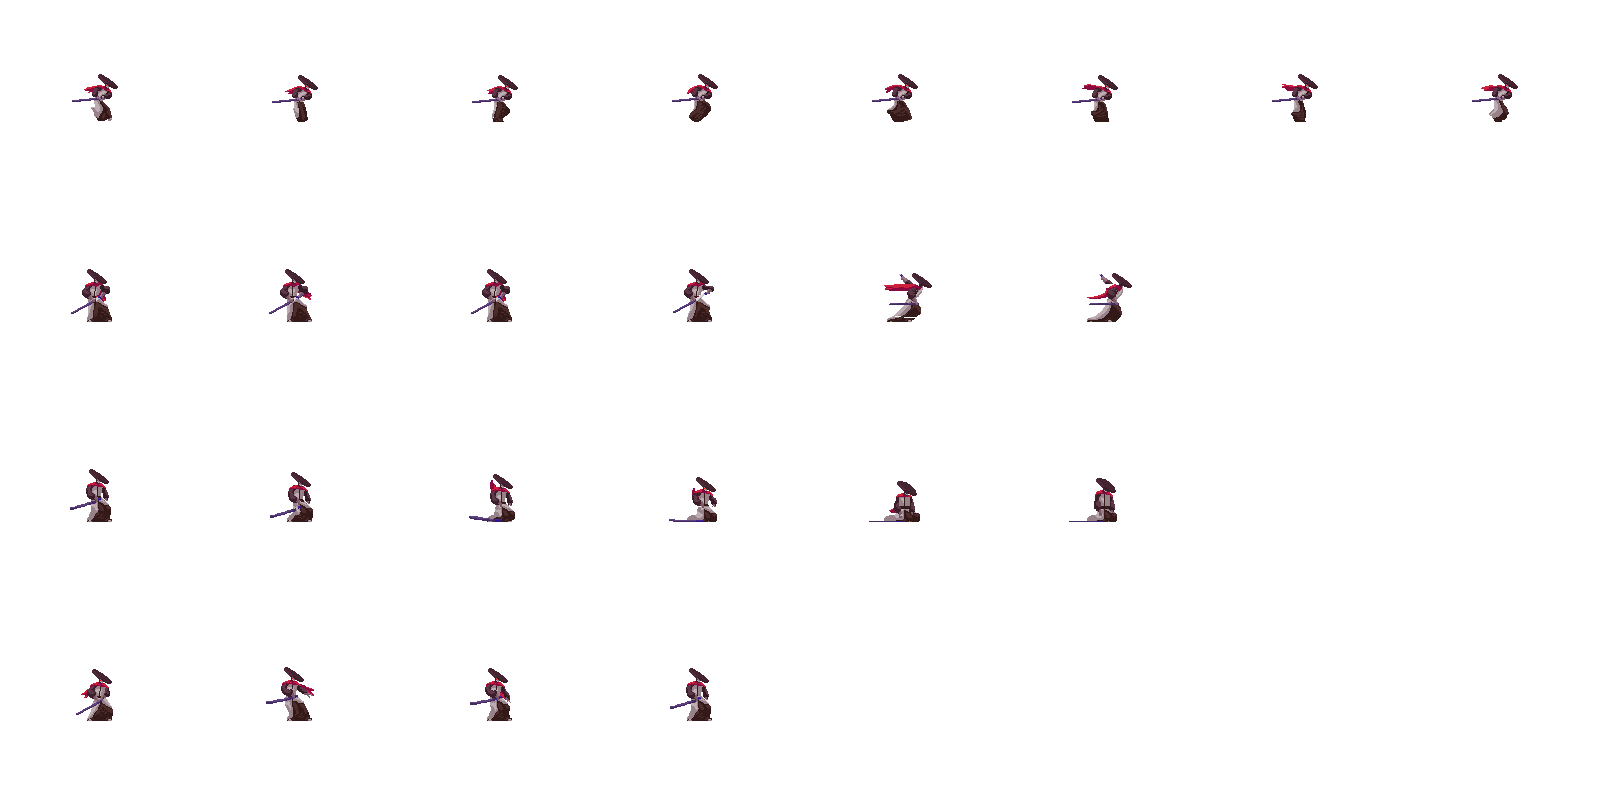
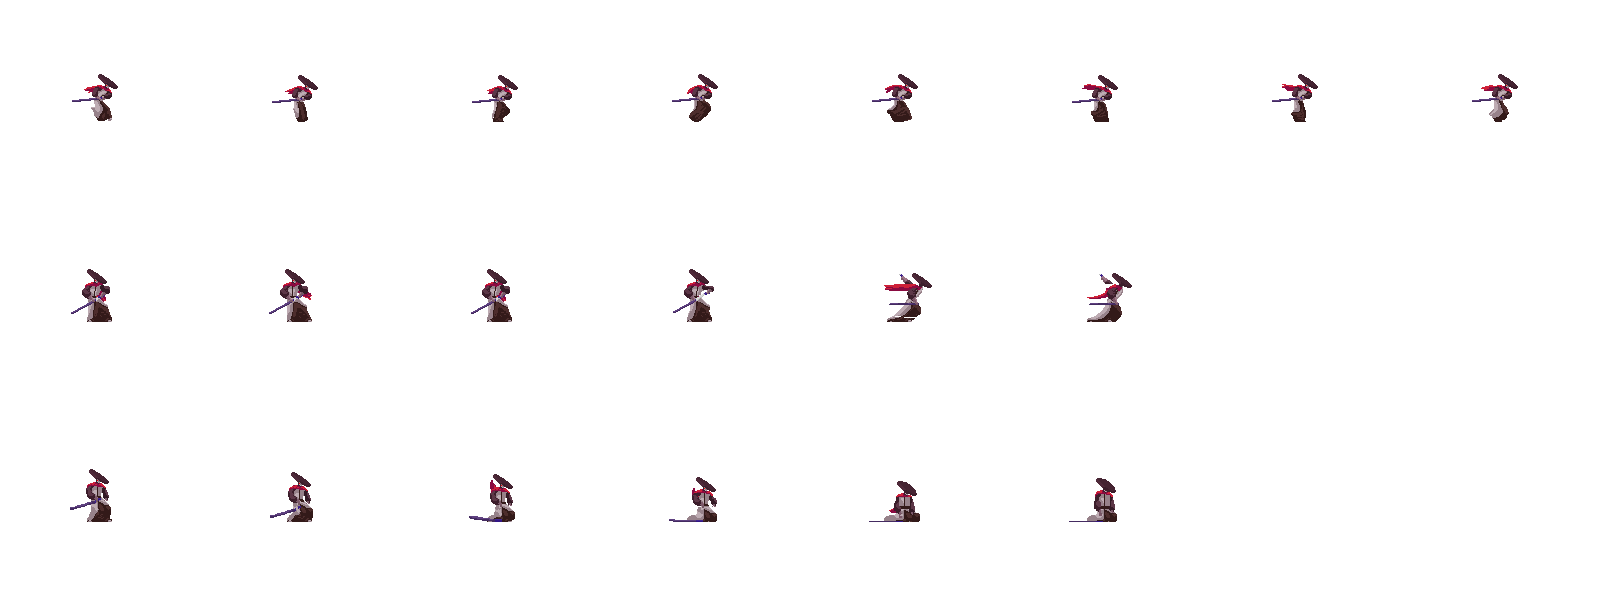
removed hit from original guardian

diff --git a/src/config.py b/src/config.py
@@ -179,11 +179,10 @@ bossConfig = {
 }
 
 guardianConfig = {
-    "ANIMATION_STEPS": [8, 6, 6, 4],
+    "ANIMATION_STEPS": [8, 6, 6],
     "ANIM_DEATH": 2,
     "ANIM_RUN": 0,
     "ANIM_ATTACK": 1,
-    "ANIM_HIT": 3,
     "SIZE_X": 200,
     "SIZE_Y": 200,
     "SCALE": 3,
